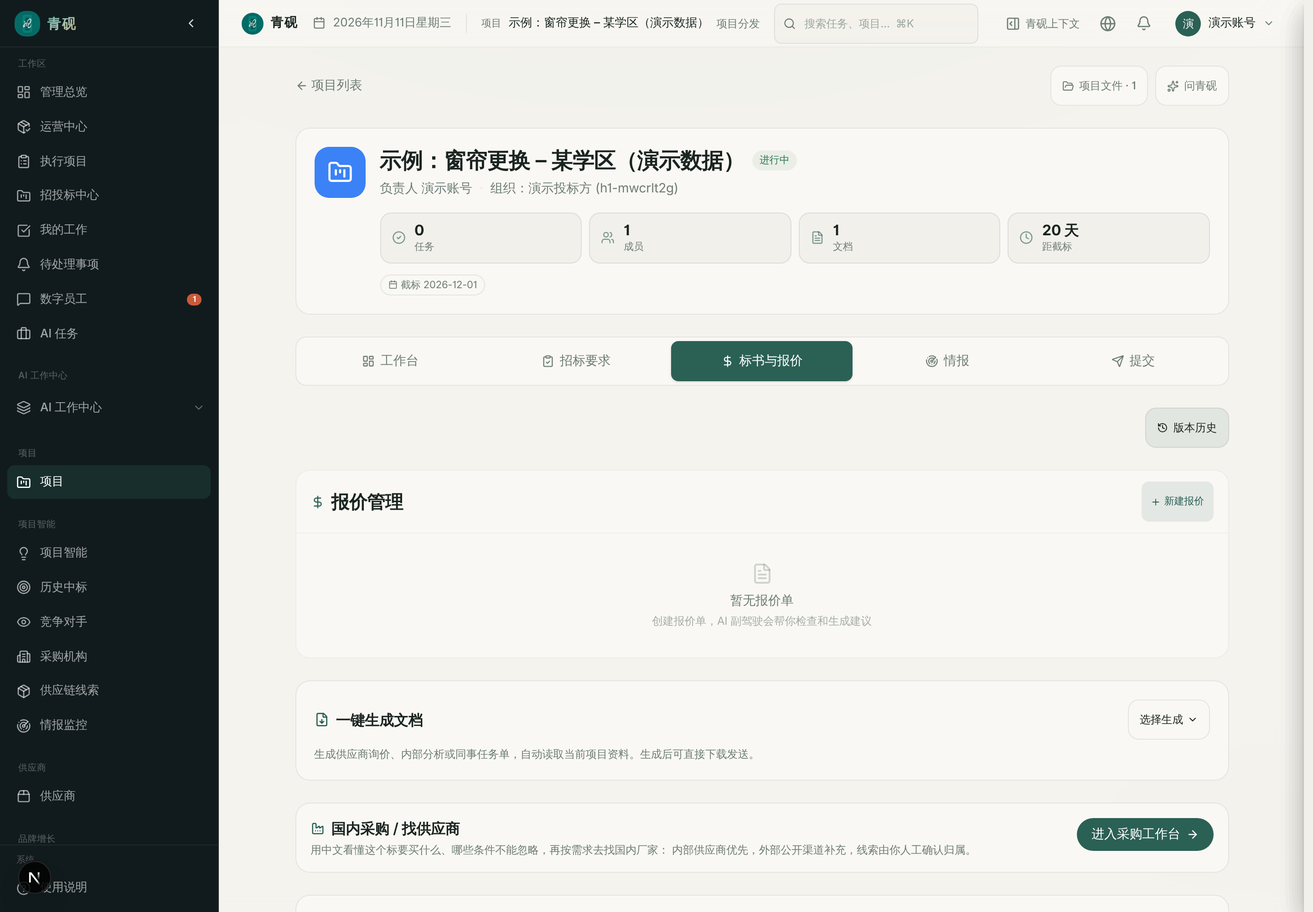
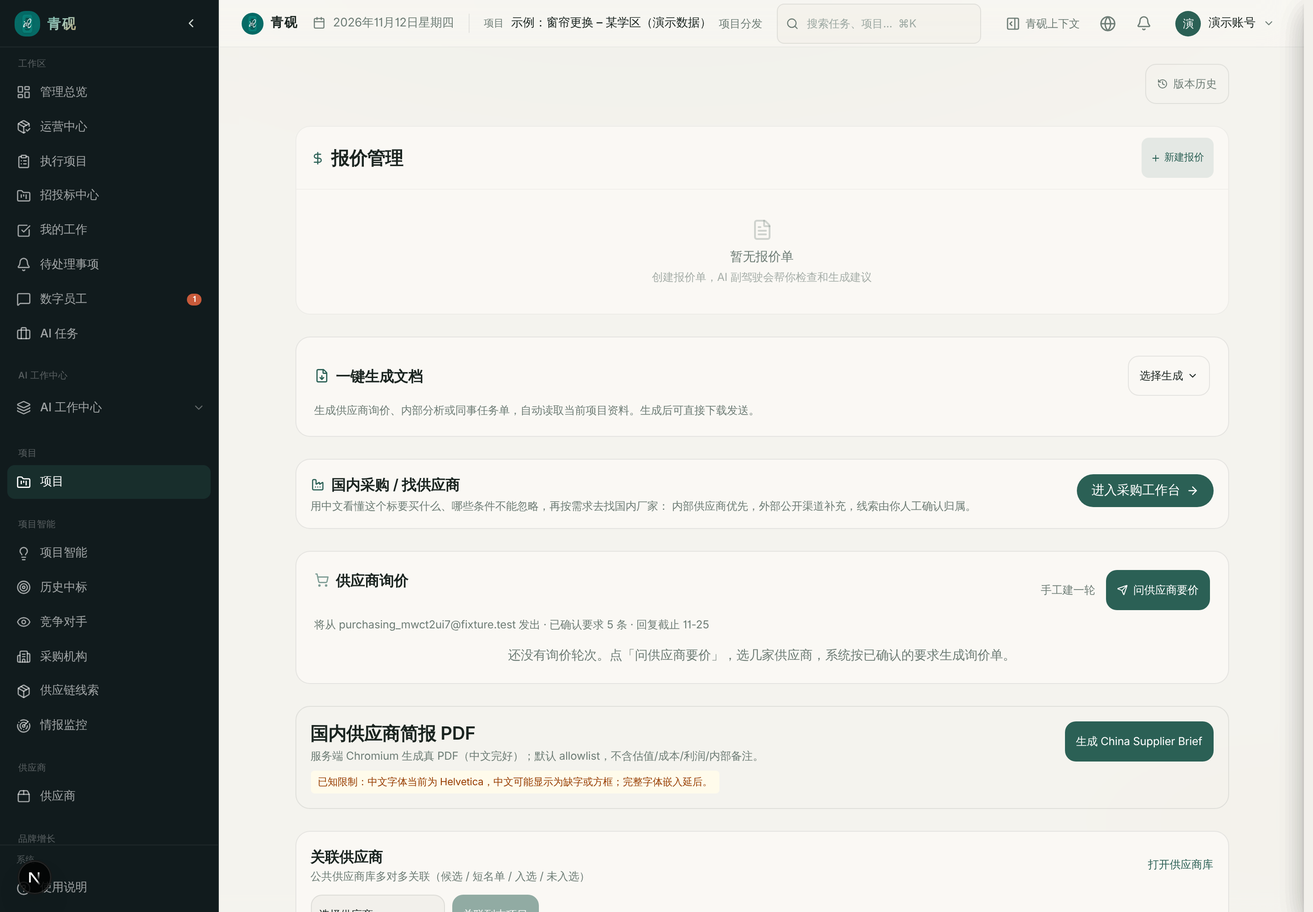
fix(FLOW-H1): 恢复项目页的默认导出（上一个提交误删）；规格 / 设计 / 提案按审查后的实现改准；截图重拍
- 页面文件的 export default 在上一次改动时被误删，类型检查与单元测试都发现不了，是真实浏览器里发现的；补了一条断言
- 规格：新增「用哪一份分析、哪一轮询价」「询价入口的说法与入口自己一致」两条要求，其余按实际行为改写
- 设计：D2 / D3 / D4 改写，新增 D4a / D4b；写明第一版被否决的做法
- .env.example 登记开关
- 截图 8 张（含入口不可用、点击后的位置）

Claude-Session: https://claude.ai/code/session_01RmngaCcysDERn2akbh9ix2

diff --git a/src/lib/tender-next-step/__tests__/web-next-step.test.ts b/src/lib/tender-next-step/__tests__/web-next-step.test.ts
@@ -374,6 +374,7 @@ console.log("接线");
   ok("截标时间只显示到日（手工填的只有日期，显示钟点会是假的）", cardSrc.includes('toLocaleDateString("zh-CN", { month: "numeric", day: "numeric" })') && !/hour:|minute:/.test(cardSrc));
   ok("卡片的测试标记齐全", ["next-step-card", "next-step-headline", "next-step-reasons", "next-step-action", "next-step-urgency", "next-step-closing", "next-step-also"].every((id) => cardSrc.includes(`data-testid="${id}"`)) && cardSrc.includes("data-rule={view.rule}"));
 
+  ok("页面文件仍然默认导出页面组件（改这个文件时曾经把它误删，类型检查发现不了）", /^export default function ProjectDetailPage\(\) \{/m.test(page) && page.includes("<ProjectDetailContent />") && /^function ProjectDetailContent\(\) \{/m.test(page));
   const navStart = page.indexOf("const openNextStepTarget = useCallback(");
   const nav = page.slice(navStart, page.indexOf("const openProjectArea = useCallback("));
   ok("（前提）取到了页面上导航的那段代码", navStart > 0 && nav.includes("scrollToProjectAnchor(target.anchor)"));

diff --git a/src/app/(main)/projects/[id]/page.tsx b/src/app/(main)/projects/[id]/page.tsx
@@ -121,6 +121,14 @@ function scrollToProjectAnchor(anchor: string): () => void {
   return stop;
 }
 
+export default function ProjectDetailPage() {
+  return (
+    <Suspense fallback={<div className="flex h-40 items-center justify-center"><Loader2 className="h-6 w-6 animate-spin text-accent" /></div>}>
+      <ProjectDetailContent />
+    </Suspense>
+  );
+}
+
 function ProjectDetailContent() {
   const params = useParams();
   const router = useRouter();

diff --git a/openspec/changes/tender-web-next-step/specs/tender/web-next-step/spec.md b/openspec/changes/tender-web-next-step/specs/tender/web-next-step/spec.md
@@ -1,18 +1,18 @@
 ## Purpose
-规定招投标项目页上「下一步」的对外行为：系统怎样判断这个标现在卡在哪、给出什么结论与原因、把人带到页面上的哪个位置。判断是查表，不调模型；卡片只指路，不替人批准或发送任何东西。
+规定招投标项目页上「下一步」的对外行为：系统怎样判断这个标现在卡在哪、给出什么结论与原因、把人带到页面上的哪个位置。判断是查表，不调模型；卡片只指路，不替人批准或发送任何东西，也不承诺系统之后会做什么。
 
 ## ADDED Requirements
 
 ### Requirement: 下一步接口
-系统 SHALL 提供只读接口 `GET /api/projects/{id}/next-step`，返回一条结论、不超过三条原因、一个要去的位置（可以没有）、截标提醒（可以没有）与不超过三条顺带要办的事。接口 SHALL 要求项目读权限，组织 SHALL 只取自服务端加载的项目记录。开关 `TENDER_WEB_NEXT_STEP_ENABLED` 关闭、组织不在白名单、或项目不是招投标项目时 SHALL 返回 404。接口 SHALL NOT 写任何东西。
+系统 SHALL 提供只读接口 `GET /api/projects/{id}/next-step`，返回一条结论、不超过三条原因、一个要去的位置（可以没有）、截标提醒（可以没有）、截标时间与不超过三条顺带要办的事。接口 SHALL 要求项目读权限，组织 SHALL 只取自服务端加载的项目记录。开关 `TENDER_WEB_NEXT_STEP_ENABLED` 关闭、组织不在白名单、或项目不是招投标项目时 SHALL 返回 404。接口 SHALL NOT 写任何东西。
 
 #### Scenario: 开关与权限
 - **WHEN** 开关关闭；或没登录；或不是项目成员；或项目不是招投标项目
 - **THEN** 分别是 404、401、被拒、404，响应里没有任何项目内容（`npx tsx src/lib/tender-next-step/__tests__/web-next-step-db.isolated.test.ts`）
 
 #### Scenario: 不写库
-- **WHEN** 有读权限的人调用接口
-- **THEN** 调用前后项目、分析、询价、审批、审计记录都没有变化（同一测试）
+- **WHEN** 有读权限的人反复调用接口
+- **THEN** 调用前后项目、分析、要求、询价、审批、通知、审计记录都没有变化（同一测试）
 
 ### Requirement: 判断是确定性的查表
 下一步 SHALL 由确定性的规则得出，SHALL NOT 调用模型；同样的状态 SHALL 得出同样的结果。待批、分析中、关键事实缺证据、强制要求不满足、还没询价、没回复、报价齐了、定了供应商没定价这些状态 SHALL 用 Muse 通道 `next_step` 的同一张查表判断，SHALL NOT 另写一份。
@@ -21,77 +21,115 @@
 - **WHEN** 分别构造这八种状态
 - **THEN** 网页得出的规则与 Muse 查表对同一状态得出的规则相同，结论文字取自同一处（`npx tsx src/lib/tender-next-step/__tests__/web-next-step.test.ts`）
 
+### Requirement: 用哪一份分析、哪一轮询价
+「当前这份分析」 SHALL 是最近一次分析；最近一次失败或被取代、而之前有等待审核或已批准的一份时 SHALL 用之前那份，并在顺带要办的事里说明最近一次失败了。「当前这一轮询价」 SHALL 是没取消的轮次里最新一轮有已发出供应商的；都没有发出过时 SHALL 是最新一轮。只算还作数的投标报价：已取消、已被取代的 SHALL NOT 算作「投标价已有」。
+
+#### Scenario: 空的新轮次不盖住上一轮
+- **WHEN** 第 1 轮有两家报价，之后手工建了一个空的（或只有未发出供应商的）新轮次
+- **THEN** 结论仍是报价齐了、位置是第 1 轮；不是「还没问过供应商」（`web-next-step-db.isolated.test.ts`）
+
+#### Scenario: 最近一次分析失败
+- **WHEN** 之前有一份等待审核的分析，最近一次重新分析失败了
+- **THEN** 主结论照等待审核的那份给出，顺带说明最近一次重新分析失败了（同一测试）
+
 ### Requirement: 网页补充的状态
-对查表没有覆盖的状态，系统 SHALL 给出明确结论：没有上传招标文件；文件正在解析；分析失败；分析完成但要求还没确认或分析还没批准；已发询价在等回复；只有一家报价；一轮没有拿到报价；已有投标价、准备提交；已提交；截标时间已过且没有提交记录；项目已结束。分析还没批准且没有进行中的询价时，系统 SHALL 指向确认要求与批准分析，SHALL NOT 指向询价。
+对查表没有覆盖、或它的答案在网页上不成立的状态，系统 SHALL 给出明确结论：没有上传招标文件；文件正在解析；分析失败；分析完成、等确认要求并批准；分析已批准却没有已确认的要求；供应商已回复、报价没录入；已发询价在等回复；只有一家报价；一轮没有拿到报价；已有投标价、准备提交；已提交；已中标；截标日期已过且没有提交记录；项目已结束。没有可用的分析而询价或定价已经在进行时，系统 SHALL 按实际进度给出下一步，把分析的事放在顺带要办的事里。
 
 #### Scenario: 分析完等批准
 - **WHEN** 最新一份分析等待审核、关键事实齐全、还没有询价
 - **THEN** 结论是等确认要求并批准，位置是「招标要求」页签的招标分析；不是「还没问过供应商」（`web-next-step.test.ts`）
 
-#### Scenario: 已提交与截标已过
-- **WHEN** 项目有提交时间；或截标时间已过且没有提交时间
-- **THEN** 前者结论是已提交、等结果；后者结论是截标时间已过、没有提交记录；两者都不再建议询价或定价（`web-next-step.test.ts`）
+#### Scenario: 已回复没录入
+- **WHEN** 一轮里两家已回复、一家还在等
+- **THEN** 结论是 2 家已回复、报价还没录入，位置是这一轮；不说「没有拿到报价」（`web-next-step.test.ts`）
 
-### Requirement: 截标提醒不盖住下一步
-距截标三天以内且未提交时，系统 SHALL 在结论旁给出截标提醒（不足一天时 SHALL 按小时说），SHALL 同时照常给出下一步。没有填截标时间时 SHALL 在顺带要办的事里提示。
+#### Scenario: 没有分析但已有报价
+- **WHEN** 项目有文件、没有分析，询价里已有两家报价
+- **THEN** 结论是报价齐了；顺带要办的事里有「招标文件还没分析」（`web-next-step-db.isolated.test.ts`）
+
+### Requirement: 询价入口的说法与入口自己一致
+页面上的询价入口要求的是至少一条已确认的要求，不是批准分析：系统 SHALL NOT 说「批准之后才能询价」；分析等待审核而已有已确认的要求时 SHALL 提示可以先去询价；分析已批准而没有一条已确认的要求时 SHALL 说明入口用不了，并给出重新分析或手工建一轮两条出路。指向询价入口时，系统 SHALL 读入口当前的状态：入口不能用时 SHALL 写出入口自己给的原因，SHALL NOT 说成可以直接发。
+
+#### Scenario: 入口不能用
+- **WHEN** 分析已批准、有已确认的要求、还没询价，而组织没有连接发信邮箱
+- **THEN** 结论是还没问过供应商；原因里是入口给出的「还没连接」的说明，并提示可以手工建一轮（`web-next-step-db.isolated.test.ts`）
+
+#### Scenario: 已批准而没有已确认的要求
+- **WHEN** 分析已批准，要求里没有一条是已确认的
+- **THEN** 结论是分析已批准、但没有已确认的要求，位置是招标分析；不说「去问供应商要价」（同一测试）
+
+### Requirement: 截标的提醒与结论
+距截标三天以内且未提交时，系统 SHALL 在结论旁给出截标提醒，SHALL 同时照常给出下一步。提醒 SHALL 按天说，SHALL NOT 说钟点（手工填的截标时间只有日期）。截标时间过了不到一天时系统 SHALL 只作提醒，SHALL NOT 下「已过」的结论；过了一天以上且没有提交记录时 SHALL 给出「截标日期已过」，位置是工作台的关键日期，并保留还有几条审批没处理的提示。系统 SHALL 只认项目的截标时间，SHALL NOT 拿内部的到期日顶替；没有填时 SHALL 在顺带要办的事里提示。
 
 #### Scenario: 两天后截标、还没询价
 - **WHEN** 两天后截标、分析已批准、还没有询价
 - **THEN** 响应同时含截标提醒「2 天后截标，还没提交」与下一步「还没问过供应商」（`web-next-step.test.ts`）
 
-#### Scenario: 只剩几个小时
-- **WHEN** 约 5 小时后截标，项目上有一条审批等批
-- **THEN** 提醒是「约 5 小时后截标，还没提交」，下一步是有 1 条等你批（`web-next-step.test.ts`）
+#### Scenario: 刚过截标时间
+- **WHEN** 截标时间一小时前过了，没有提交时间；或 30 小时前过了
+- **THEN** 前者照常给下一步，提醒是「截标时间到了或刚过」；后者结论是截标日期已过、没有提交记录（`web-next-step-db.isolated.test.ts`）
 
-### Requirement: 催单的口径与定时扫描一致
-判断「有供应商没回复」时，等待天数 SHALL 取项目负责人的设置，该轮批准时带了跟进授权且仍生效的 SHALL 取授权里定格的天数——与定时催单扫描相同。该轮的回复截止已过时系统 SHALL NOT 提示催单，SHALL 改为说明截止已过、有几家没回。网页上没有起草催单的按钮：系统 SHALL 说明催单由定时检查起草、起草后在这里等批，没有邮件线程的由人手工联系。
+#### Scenario: 只有内部到期日
+- **WHEN** 项目没有截标时间，内部到期日是两天前
+- **THEN** 不说截标已过；顺带要办的事里有「还没填截标时间」（同一测试）
 
-#### Scenario: 负责人的天数
-- **WHEN** 项目负责人设的是 5 天、看页面的人设的是 2 天，询价发出 3 天没回
-- **THEN** 结论不是「没回」，而是在等回复（`web-next-step-db.isolated.test.ts`）
+### Requirement: 等回复与没回复的口径
+判断「有供应商没回复」时，等待天数 SHALL 取项目负责人的设置，该轮批准时带了跟进授权且仍生效的 SHALL 取授权里定格的天数——与定时催单扫描相同。回复截止已过、轮次已结束、或发出时间超出定时催单的时间窗的供应商 SHALL NOT 被说成「没回、该催了」或「在等回复」。已经选定供应商时，没回的其它供应商 SHALL NOT 挡住下一步。系统 SHALL NOT 承诺之后会不会起草或发出催单；SHALL 只说现在的状态并指向这一轮。
+
+#### Scenario: 负责人的天数与授权的天数
+- **WHEN** 项目负责人设的是 5 天、看页面的人设的是 2 天，询价发出 3 天没回；之后发出满 6 天，而这一轮带着定格 8 天的已批准跟进授权
+- **THEN** 两种情况结论都是在等回复，分别写明满 5 天、满 8 天会提示（`web-next-step-db.isolated.test.ts`）
 
 #### Scenario: 回复截止已过
 - **WHEN** 询价发出很久没回，该轮的回复截止日已过一天以上
-- **THEN** 结论是回复截止已过、几家没回，位置是这一轮；原因里没有催单（`web-next-step.test.ts`）
+- **THEN** 结论是回复截止已过、几家没回，位置是这一轮；文字里没有「会催」「不会再催」（`web-next-step.test.ts`）
+
+#### Scenario: 已选定后没回的不挡路
+- **WHEN** 已选定一家，另一家很久没回，还没定价
+- **THEN** 下一步是定投标价，原因里带一句另有 1 家没回（`web-next-step.test.ts`）
 
 ### Requirement: 每一步指向页面上的位置且不执行动作
-给出的位置 SHALL 是下列之一：项目页的一个页签（可带页内位置：招标分析、询价轮次、某一轮询价、投标价、投标工作区）、文件抽屉、审批中心。系统 SHALL NOT 因为显示或点击下一步而批准、驳回、发送、起草或推进任何东西；这些动作 SHALL 仍由人在既有的按钮上完成。看页面的人没有项目写权限、而这一步需要写权限时，系统 SHALL 说明这一步要由项目负责人来做。
+给出的位置 SHALL 是下列之一：项目页的一个页签（可带页内位置：招标分析、供应商询价、某一轮询价、投标价、投标工作区、关键日期）、文件抽屉、审批中心。页内位置 SHALL 在相应区块没有数据时也存在。系统 SHALL NOT 因为显示或点击下一步而批准、驳回、发送、起草或推进任何东西；这些动作 SHALL 仍由人在既有的按钮上完成。看页面的人没有项目写权限、而这一步需要写权限时，系统 SHALL 说明这一步要由项目负责人来做。
 
 #### Scenario: 位置
 - **WHEN** 状态分别是没传文件、分析完等批准、还没询价、报价齐了、定了供应商没定价
-- **THEN** 位置分别是文件抽屉、「招标要求」页签的招标分析、「标书与报价」页签的询价轮次、那一轮询价、「标书与报价」页签的投标价（`web-next-step.test.ts`）
+- **THEN** 位置分别是文件抽屉、「招标要求」页签的招标分析、「标书与报价」页签的供应商询价、那一轮询价、「标书与报价」页签的投标价（`web-next-step.test.ts`）
 
-#### Scenario: 点击只是导航
-- **WHEN** 在真实页面上点卡片的按钮
-- **THEN** 只切换页签并滚动到那个位置；没有发出任何写请求（截图 `docs/acceptance/flow-h1/`；`web-next-step.test.ts` 的源码断言）
+#### Scenario: 还没有任何轮次时也能到位
+- **WHEN** 项目还没有询价轮次，在真实页面上点「去供应商询价」
+- **THEN** 页面切到「标书与报价」并滚到供应商询价，「问供应商要价」按钮在视野里；没有发出任何写请求（截图 `docs/acceptance/flow-h1/after-click-rfq.png`；`web-next-step.test.ts` 核对该位置在区块的根元素上）
 
 ### Requirement: 等批准的动作
-「有动作等你批」 SHALL 只统计这个人可见、属于这个项目、待批且未过期的审批。最早一条是询价或催单时位置 SHALL 是它所在的那一轮；其它 SHALL 是审批中心。
+「有动作等你批」 SHALL 只统计这个人可见、属于这个项目、待批且未过期的审批，可见范围 SHALL 与他的审批收件箱相同。最早一条是询价或催单时位置 SHALL 是它所在的那一轮；催单针对的供应商已经回复或报价时（那一轮里不再列出它）位置 SHALL 是审批中心，并说明这张催单已经用不上；其它类型 SHALL 是审批中心。
 
 #### Scenario: 别人的、别的项目的、过期的不算
-- **WHEN** 项目上有一条本人可见的待批询价，另有别的项目的、已过期的、本人看不到的各一条
-- **THEN** 结论是有 1 条等你批，位置是那一轮询价（`web-next-step-db.isolated.test.ts`）
+- **WHEN** 项目上有一条负责人可见的待批催单，另有别的项目的、已过期的、已批过的各一条；另一位项目成员看不到这张卡
+- **THEN** 负责人看到有 1 条等你批、位置是那一轮；那位成员看到的条数与他的审批收件箱一致（0 条）（`web-next-step-db.isolated.test.ts`）
+
+#### Scenario: 用不上的催单
+- **WHEN** 催单针对的那一家已经报价
+- **THEN** 位置是审批中心，原因说明这张催单已经用不上、可以驳回（同一测试）
 
 ### Requirement: 投标工作区的阻断项与价格表
-投标工作区对该组织开启时：已有投标价、准备提交的状态 SHALL 列出工作区判定里的阻断项（成本类的除外，并说明成本核算只存在浏览器里、这里看不到）；分析已完成而价格表还没录时 SHALL 在顺带要办的事里提示可以从招标分析带入。工作区未开启时 SHALL NOT 出现这两项。
+投标工作区对该组织开启且已录价格表时：已有投标价、准备提交的状态 SHALL 列出工作区判定里的阻断项（成本类与截标时间类的除外，并说明成本核算只存在浏览器里、这里看不到）。工作区开启而价格表还没录时 SHALL NOT 说有阻断项，SHALL 在顺带要办的事里提示可以从招标分析带入。工作区未开启时 SHALL NOT 出现这两项。
 
-#### Scenario: 工作区开启与关闭
-- **WHEN** 同一个已有投标价的项目，工作区分别开启（价格表里有一行尺寸还没核对）与关闭
-- **THEN** 开启时原因里有那条阻断项、位置是投标工作区；关闭时位置是「提交」页签（`web-next-step-db.isolated.test.ts`）
+#### Scenario: 工作区关闭、开启未用、开启已用
+- **WHEN** 同一个已有投标价的项目，工作区分别关闭、开启但没录价格表、开启且价格表里有一行尺寸还没核对
+- **THEN** 前两种位置是「提交」页签（第二种顺带提示价格表还没录）；第三种原因里有那条阻断项、位置是投标工作区（`web-next-step-db.isolated.test.ts`）
 
 ### Requirement: 不输出金额
-接口的响应与卡片 SHALL NOT 含任何金额：毛利率、项目估值、我方报价、供应商报价、成本都不出现。
+接口的响应与卡片 SHALL NOT 含任何金额：毛利率、项目估值、我方报价、供应商报价、成本都不出现。来自数据的自由文字（审批标题、阻断项说明、询价入口的说明）里带金额或百分比时 SHALL 整段替换，SHALL NOT 局部遮盖。
 
 #### Scenario: 响应里没有金额
-- **WHEN** 项目有估值、有供应商报价、有投标报价
-- **THEN** 响应的文字里不出现这些数字，响应里没有价格类字段（`web-next-step-db.isolated.test.ts`）
+- **WHEN** 项目有估值、有供应商报价、有投标报价；或一条审批的标题里写着金额与毛利
+- **THEN** 响应的文字里不出现这些数字，那条标题整段不显示，响应里没有价格类字段（`web-next-step-db.isolated.test.ts`、`web-next-step.test.ts`）
 
 ### Requirement: 项目页的下一步卡片
-开关开启时，招投标项目的工作台页签顶部 SHALL 显示「下一步」卡片：结论、原因、去往位置的按钮、截标提醒、顺带要办的事。卡片出现时「项目决策摘要」 SHALL NOT 给出另一个下一步（它显示同一条结论）。审批有变化、项目有更新、回到工作台页签时卡片 SHALL 重新取数。接口不可用（含开关关闭）时卡片 SHALL NOT 渲染，页面其余部分 SHALL 与没有卡片时相同。
+开关开启时，招投标项目的工作台页签顶部 SHALL 显示「下一步」卡片：结论、原因、去往位置的按钮、截标提醒或截标日期、顺带要办的事。卡片出现时「项目决策摘要」与右侧的项目上下文 SHALL 显示同一条结论：决策摘要 SHALL NOT 另有按钮，项目上下文 SHALL 保留去往同一页签或文件抽屉的按钮。项目数据重新载入、分析状态变化、审批有变化、从别的页签回到工作台时卡片 SHALL 重新取数。接口不可用（含开关关闭）时卡片 SHALL NOT 渲染，页面其余部分 SHALL 与没有卡片时相同。
 
 #### Scenario: 卡片与摘要说同一件事
 - **WHEN** 打开一个分析已批准、还没询价的项目
-- **THEN** 卡片写「还没问过供应商」并有「去问供应商要价」按钮；决策摘要显示同一条结论、没有另一个按钮（截图 `docs/acceptance/flow-h1/no-rfq.png`）
+- **THEN** 卡片写「还没问过供应商」并有「去供应商询价」按钮；决策摘要显示同一条结论、没有另一个按钮（截图 `docs/acceptance/flow-h1/no-rfq.png`）
 
 #### Scenario: 开关关闭
 - **WHEN** 开关关闭时打开同一个项目

diff --git a/openspec/changes/tender-web-next-step/design.md b/openspec/changes/tender-web-next-step/design.md
@@ -7,8 +7,8 @@
 - 确定性的查表已经有了：`src/lib/muse-bridge/next-step.ts` 的 `decideNextStep`，十条规则，纯函数、零依赖。唯一调用方是 Muse 通道的 `next_step` 意图，而 Muse Connector 已冻结。
 - 网页上另有两处「下一步」：`deriveTenderWorkbenchState`（三步：上传 → 确认要求 → 准备标书，第三步永远不结束）与 `deriveProjectCommandState`（「项目决策摘要」上的按钮，要求确认之后靠手工推进的阶段来猜）。它们都在浏览器里用项目基本信息算，看不到询价、报价、审批。
 - Muse 那张表直接搬上网页有三处不合适：
-  1. 没有「分析完、等你确认要求并批准」这一步——这种状态它会落到「还没问过供应商」，而网页上的询价入口正要求先批准分析。
-  2. 「三天内截标」是排第二的规则，命中后只说截标、不说该做什么——恰好是最需要指路的时候。
+  1. 没有「分析完、等你确认要求并批准」这一步——这种状态它会落到「还没问过供应商」。网页上的询价入口要求的是至少一条已确认的要求（不是批准分析），而批准之后就不能再确认，所以这一步不能跳过不提。
+  2. 「三天内截标」是排第二的规则，命中后只说截标、不说该做什么——恰好是最需要指路的时候。它按天向上取整（25 小时说成「2 天后」）；而手工填的截标时间只有日期，存成当天中午，钟点是假的。
   3. 「没回该催」取的是提问人的等待天数，也不看回复截止；定时催单扫描取的是项目负责人的天数（或该轮授权里定格的天数），截止过了就不催（基线 G12）。而且网页上没有起草催单的按钮，催单只由定时检查起草。
 - 页面已有的定位办法：`?tab=`、询价区块认 `#rfq-round-<id>` 与 `#rfq-rounds`、招标分析区有 `id="tender-analysis"`。没有通用的「切到某页签并滚到某处」。
 - 这个人可见的待批审批：`loadPendingMineWhere` 给出条件，`PendingAction` 上有 `projectId` 列，可以直接按项目查。
@@ -26,7 +26,7 @@
 
 - 不改 `src/lib/muse-bridge/**`（包括 `next-step.ts`、`router.ts`）。
 - 不改 `src/lib/tender/workbench-state.ts`、`src/lib/tender/stage*.ts`、`src/components/project-onboarding/**`：三步卡与六段进度条照旧。
-- 不改询价、催单、审批、投标工作区的任何判断与接口；`src/lib/tender-rfq/chase-service.ts` 只把两个已有的函数导出，不改它们。
+- 不改询价、催单、审批、投标工作区的任何判断与接口；`src/lib/tender-rfq/chase-service.ts` 只把一个已有的函数（`roundPolicyInEffect`）与一个常量（`OPEN_ITEM_WINDOW_DAYS`）导出，不改它们。
 - 不改 `prisma/schema.prisma`。
 
 ## Decisions
@@ -39,35 +39,55 @@
 - 否决：把查表函数改成两边通用的核心、Muse 与网页各自渲染。要动冻结通道的文件，`next_step` 的输出有改变的风险，而收益只是代码好看一点。
 - 否决：把文件挪到 `src/lib/tender/` 再从 muse-bridge 转出口。同样要动 muse-bridge；位置不好看可以以后再挪。
 
-### D2 截标提醒单独算，不参与排序
+### D2 截标提醒单独算，不参与排序；只认截标时间，按天说
 
-调两次查表：一次去掉截标时间，得到真正的下一步；一次去掉待批，只看它是不是命中「三天内截标」，命中就把那句结论作为卡片上的提醒。三天这个阈值与文案仍只有一处定义。
+调两次查表：一次去掉截标时间，得到真正的下一步；一次去掉待批，只看它是不是命中「三天内截标」——要不要提醒由它决定，「三天」仍只有一处定义。怎么说由网页定：按天（「2 天后」「1 天多后」「不到 1 天后」「到了或刚过」），不说钟点。过了整整一天才给「截标日期已过」这个结论。
 
 - 否决：沿用它的顺序（截标排第二）。命中后只剩一句「N 天后截标」，下一步被盖住。
-- 否决：在网页这边再写一个三天的常量。又是两处。
+- 否决：用它的原话。它向上取整，25 小时说成「2 天后」，比实际宽松。
+- 否决：说到小时（本设计的第一版）。手工填的截标时间存成当天中午，「约 5 小时后截标」是假精确；一过中午就判「已错过截标」更是错的。
+- 否决：没有截标时间时拿内部到期日顶替（Muse 的取法）。到期日不是截标，提交页上截标时间显示的也是「暂无」。
 
-### D3 网页补充的状态放在查表之外，只在它没有答案的地方补
+### D3 网页补充的状态放在查表之外，只在它没有答案、或答案在网页上不成立的地方补
 
-前置（查表之前）：项目已结束、已提交、截标已过且未提交。细化（查表之后）：
+前置（查表之前）：已中标、项目已结束、已提交、截标日期已过一天以上。细化（查表之后）：
 
-- 查表说「没分析」→ 按有没有文件、是否在解析、是否失败分成四种。
-- 分析等待审核且查表落到「还没询价」或「没有待办」→ 改为「等你确认要求并批准」。有进行中的询价时不改，只在顺带要办的事里提一句分析还没批准（有人先手工建了轮次，不能让卡片永远停在批准上）。
-- 查表说「没有待办」→ 按询价轮次与投标价再分：等回复、只有一家报价、一轮没拿到报价、已有投标价准备提交。
-- 已有投标价时，「还没询价」让位给「准备提交」（有人不经询价直接定了价）。
+- 查表说「没分析」→ 按有没有文件、是否在解析、是否失败分开；**如果询价或定价已经在走（老项目、或有人手工做了），跟着实际进度说**，分析的事放在顺带要办的事里。
+- 分析等待审核且查表落到「还没询价」或「没有待办」→ 改为「等你确认要求并批准」；已有已确认的要求时顺带提示可以先去询价。有进行中的询价时不改，只顺带提一句分析还没批准。
+- 分析已批准却没有一条已确认的要求 → 单列：入口用不了，批准后不能再确认，出路是重新分析或手工建一轮。
+- 查表说「没回」而已经选定了一家 → 没回的不再挡路，按未响应再查一次表。
+- 查表说「没有待办」→ 按询价轮次与投标价再分：已回复没录入、等回复、只有一家报价、一轮没拿到报价、已有投标价准备提交；认不出的状态不猜，带人去看这一轮。
+- 已有投标价时，「还没询价」让位给「准备提交」。
 
 - 否决：把这些加进 Muse 的表。见 D1。
 
-### D4 催单按定时扫描的口径喂数
+### D4 等回复与没回复：按定时扫描的口径喂数，不承诺系统会做什么
 
-等待天数：该轮带了跟进授权且仍生效 → 授权里定格的天数；否则项目负责人的偏好 → 组织设置 → 3 天。用的是扫描自己的两个函数（从 `chase-service.ts` 导出）。回复截止用扫描的 `deadlinePassed`。查表说「没回」而截止已过 → 改为「回复截止已过」。
+等待天数：该轮带了跟进授权且仍生效 → 授权里定格的天数；否则项目负责人的偏好 → 组织设置 → 3 天。用的是扫描自己的函数。扫描不再看的供应商（轮次已结束、发出超过它 90 天的时间窗）按未响应交给查表；回复截止用扫描的 `deadlinePassed`，过了就按未响应再查一次表。
 
-- 否决：沿用 Muse 的取法（提问人的天数、不看截止）。卡片会说「该催了」，而扫描不会催，人等不到那张卡。
-- 否决：顺手把 Muse 的取法也改了。冻结通道，不动。
-- 代价：同一个状态，Muse 与网页在这一条上可能说的不一样（Muse 用提问人的天数）。Muse 已冻结，记在已知限制里。
+文字只说现在的状态（几家没回、超过几天、哪几家没有邮件线程）并指向这一轮。**不说「定时检查会起草催单」「系统不会再催」**：催不催取决于邮箱有没有连接、这一轮有没有授权、有没有被驳回过的催单卡——这些卡片不知道（第一版说了，审查逐条证明是错的）。
+
+- 否决：沿用 Muse 的取法（提问人的天数、不看截止）。卡片会说「该催了」，而扫描不会催。
+- 否决：把扫描的全部判断搬进来算「这一家会不会被催」。要读卡片状态、邮箱、授权，等于在卡片里重做一遍扫描；说错的代价比不说大。
+- 代价：同一个状态，Muse 与网页在这一条上可能说的不一样。Muse 已冻结，记在已知限制里。
+
+### D4a 当前这份分析、当前这一轮
+
+分析：最近一次；最近一次失败或被取代、而之前有等待审核或已批准的一份 → 用之前那份（询价入口用的也是它）。轮次：没取消的里最新一轮有已发出供应商的；都没发出过 → 最新一轮。
+
+- 否决：一律取最新一轮（Muse 的取法，本设计的第一版）。手工建一个空轮次、或一张发送卡过期后留下的草稿轮次，会把上一轮的报价盖成「还没问过供应商」。
+- 否决：一律取最近一次分析。重新分析失败一次，卡片就说「上次分析失败」，而询价其实照常能用。
+
+### D4b 指向询价入口时，读入口自己的状态
+
+结论是「还没询价」或「一轮没拿到报价」时，再调一次页面上询价入口的读取函数（只读），拿它的「能不能用、为什么不能」。不能用时把它的原因写出来。
+
+- 否决：只写「去问供应商要价」。入口可能因为没连邮箱、三天内不开新轮、没有可发的供应商而是灰的，卡片就成了指向一个点不了的按钮。
+- 否决：每次都读入口状态。它要读供应商、邮箱、历史发送，比卡片其余部分加起来还重；只在要指向它的两种结论下读。
 
 ### D5 位置是数据，不是回调
 
-接口返回 `{ kind: "tab", tab, anchor } | { kind: "files" } | { kind: "href", href }`。页面按它切页签、滚动、开抽屉或跳转。两个缺的锚点（投标价、投标工作区）在「标书与报价」页签里各包一层带 `id` 的容器。
+接口返回 `{ kind: "tab", tab, anchor } | { kind: "files" } | { kind: "href", href }`。页面按它切页签、滚动、开抽屉或跳转。缺的四个页内位置（供应商询价、投标价、投标工作区、关键日期）各加一个 `id`，都放在「没有数据时也会渲染」的元素上——第一版把询价的位置指到轮次列表，还没有轮次时它不存在，点了哪儿也去不了。
 
 - 否决：接口返回一个网址。文件抽屉不是网址；同页切换不该整页刷新。
 - 否决：在卡片上直接放「批准」「发送」按钮。批准的按钮已经在该在的地方，旁边有正文可看；卡片上再放一个，等于绕过了看正文这一步。
@@ -80,7 +100,7 @@
 
 ### D7 卡片出现时，决策摘要跟着它说
 
-页面拿到接口结果后，把「项目决策摘要」的下一步换成同一条结论（不带按钮）；按钮只在卡片上。接口不可用时摘要照旧。
+页面拿到接口结果后，把「项目决策摘要」与右侧「项目上下文」的下一步都换成同一条结论。决策摘要不带按钮（按钮在它正上方的卡片上）；项目上下文在每个页签都看得到、而卡片只在工作台，所以它保留按钮，去往同一个页签或文件抽屉。接口不可用时两处照旧。
 
 - 否决：两处都留着各自的按钮。一页上两个「下一步」，说的还不一样。
 - 否决：删掉决策摘要的下一步逻辑。开关关闭时页面要与现在相同。
@@ -93,7 +113,7 @@
 
 ### D9 投标工作区的阻断项怎么用
 
-工作区开启时现算一次判定（与它的读取接口用同一组函数）。成本类的两种阻断项不列（服务端看不到成本输入，列了就永远在）；其余的在「准备提交」里列前两条并给出总数。价格表为空时在顺带要办的事里提示可从招标分析带入（FIX-2）。
+工作区开启时现算一次判定（与它的读取接口用同一组函数）。成本类的两种阻断项不列（服务端看不到成本输入，列了就永远在）；截标时间类的两种也不列（卡片另有提示）；其余的在「准备提交」里列前两条并给出总数。**只在已经录了价格表时才谈阻断项**：工作区开了但没用过的组织，阻断项只有「价格表没有任何行项」，那是另一件事，放在顺带要办的事里（并提示可从招标分析带入，FIX-2）。
 
 - 否决：把所有阻断项都列出来。「成本还没核算」会一直挂着，人很快就不看了。
 - 否决：阻断项一出现就作为主结论。询价还没发的时候说「尺寸没核对」，顺序不对。
@@ -103,7 +123,7 @@
 1. **零 schema**：遵守。只读既有的表与字段；不新增表、列、迁移。
 2. **出站先审批**：遵守。卡片与接口不建审批、不批准、不发送；批准仍由人在既有按钮上完成。
 3. **禁止第三套队列**：遵守。没有后台执行；接口在请求里现算。
-4. **脱敏**：遵守。响应不含任何金额（毛利率、估值、我方报价、供应商报价、成本都不出）；Muse 通道没有新增内容。
+4. **脱敏**：遵守。响应不含任何金额（毛利率、估值、我方报价、供应商报价、成本都不出）；来自数据的自由文字（审批标题、阻断项说明、入口的说明）带金额或百分比时整段替换，不做局部遮盖；Muse 通道没有新增内容。
 5. **不爬登录页**：不涉及。
 6. **邮箱分离**：不涉及。
 7. **确定性优先**：遵守。判断全部是查表与固定规则；不新增模型调用；共用状态直接调用既有的查表函数。
@@ -111,22 +131,25 @@
 
 ## 验证方式
 
-- `npx tsx src/lib/tender-next-step/__tests__/web-next-step.test.ts`（新）：每一种状态的结论、原因、位置；与 Muse 查表逐状态对照；截标提醒与下一步并存；催单口径；只读成员；位置到网址的换算；开关；接线与「点击只是导航」的源码断言。
-- `npx tsx src/lib/tender-next-step/__tests__/web-next-step-db.isolated.test.ts`（新，本地隔离库，经真实路由处理函数）：从没传文件一路走到已提交；待批的范围（别人的、别的项目的、过期的）；负责人的天数；工作区开与关；权限与开关；不写库；响应里没有金额。
-- 变异核对：把实现逐处改坏，每一处都要有测试失败。
-- `npx tsx src/lib/muse-bridge/__tests__/next-step.test.ts` 等既有测试不改断言通过；读到被改文件的既有测试全部重跑（`workbench-command-deck`、`tender-detail-ia`、`panel-helpers`、`quote-engine-contract` 等）。
+- `npx tsx src/lib/tender-next-step/__tests__/web-next-step.test.ts`（新）：每一种状态的结论、原因、位置；与 Muse 查表逐状态对照；截标提醒与下一步并存、按天说；等回复与没回复的口径；询价入口三种状态；待批的各种卡；全部 25 条规则逐条核对权限说明；工作区三种情形；金额的整段替换；位置到网址；开关；决策摘要与右侧面板；接线与「点击只是导航」的源码断言（含页内位置在区块根元素上）。
+- `npx tsx src/lib/tender-next-step/__tests__/web-next-step-db.isolated.test.ts`（新，本地隔离库，经真实路由处理函数）：一个标从没传文件走到已中标；待批的范围；负责人的天数与授权里定格的天数；催过两次的；用不上的催单；已取消的报价；工作区关 / 开未用 / 开已用；只有到期日；两份分析、最近一次失败；三轮询价（空轮次、取消、完成、超出时间窗）；已批准而没有已确认的要求；没有分析但已有报价；权限与开关；不写库；响应里没有金额。
+- 变异核对：把实现逐处改坏（含独立审查做过而第一版测试没发现的 15 处），每一处都要有测试失败。
+- `npx tsx src/lib/muse-bridge/__tests__/next-step.test.ts` 等既有测试不改断言通过；读到被改文件的既有测试全部重跑。
 - 全量：`npm run test:ci`、`npm run typecheck`、`npm run lint:baseline`、`bash scripts/check-test-registry.sh`、`bash scripts/test-runtime-architecture.sh`。
-- 真实应用截图（本地库、演示数据）存 `docs/acceptance/flow-h1/`：等批准分析、还没询价、有卡等批、报价齐了、临近截标、开关关闭；并记下点击按钮时发出的请求。
-- 开 PR 前请一个不带结论的独立审查（重点：多租户与审批可见范围、有没有说错状态的情形、位置对不对、测试能不能发现问题）。
+- 真实应用截图（本地库、演示数据）存 `docs/acceptance/flow-h1/`，并记下点击按钮后页面的位置与发出的请求。
+- 开 PR 前请一个不带结论的独立审查（重点：有没有说错状态的情形、位置对不对、多租户与审批可见范围、测试能不能发现问题）。
 - `openspec validate tender-web-next-step --strict`。
 
 ## Risks / Trade-offs
 
-- **卡片说错比不说糟。** 每种状态都有测试；看不准的状态（如只有一家报价）给的是选项，不是指令。
-- **「最新一份分析」按创建时间取**，与 Muse、与页面现有的取法一致；新一份分析在跑的时候卡片会说「正在分析」，即使上一份已批准。
+- **卡片说错比不说糟。** 每种状态都有测试；看不准的状态（只有一家报价、认不出的状态）给的是选项或「去看一下」，不是指令；不承诺系统之后会做什么。
+- **强制要求不满足、有供应商没回，排在比价与定价之前**（查表的顺序，网页沿用；只有「已选定之后没回的不挡路」做了调整）。
 - **网页上没有「标记已提交」与「起草催单」的按钮**。卡片照实说明，指到最近的位置。
-- **每次取数是七八条查询**。只在打开工作台、审批变化、项目更新时取，不轮询。
-- **Muse 与网页在「没回该催」上可能不一致**（D4）。
+- **每次取数是十条左右的查询**，要指向询价入口时再加入口自己的一组。只在项目数据载入、审批变化、分析状态变化、回到工作台时取，不轮询。
+- **开关关闭时，招投标项目的页面每次打开多一次返回 404 的请求**（页面不知道开关的状态）；非招投标项目不请求。
+- **Muse 与网页在「没回该催」、取哪一轮、取哪个截标时间上可能不一致**（D2、D4、D4a）。Muse 已冻结。
+- **审批中心按当前选中的组织列卡**：一个人属于多个组织时，从卡片进审批中心可能要先切组织。
+- **老项目（没有 `workDomain = tender`、只靠旧字段认作招投标的）没有卡片**；接口与询价入口都只认 `workDomain`。
 - **隔离库测试在 CI 里跳过**（仓库现状）：本地跑并在报告里写明。
 
 ## Migration Plan

diff --git a/openspec/changes/tender-web-next-step/proposal.md b/openspec/changes/tender-web-next-step/proposal.md
@@ -10,12 +10,14 @@ TASKFLOW：FLOW-H1（Phase F 续）
 ## What Changes
 
 - 新增接口 `GET /api/projects/{id}/next-step`：返回这个标现在的一条结论、原因、要去的位置、截标提醒、顺带要办的事。只读，项目读权限。
-- 让网页的判断复用 Muse 的同一张查表（十条规则原样调用，不改它），在它前后补上网页才需要的状态：没传文件、文件解析中、分析完等确认与批准、等回复、只有一家报价、一轮没拿到报价、已有投标价准备提交、已提交、截标已过、项目已结束。
-- 把截标提醒从「规则」改成「卡片上的一行」：临近截标时不再盖住真正的下一步。
-- 让催单的口径与定时催单扫描一致：等待天数取项目负责人的设置（或该轮批准时定格的天数），回复截止过了就不再提示催。
-- 让每一步指到页面上具体的位置：页签加锚点（招标分析、询价轮次、某一轮、投标价、投标工作区）、文件抽屉、审批中心。卡片只带人过去，不替人批准、不发任何东西。
-- 在工作台页签顶部加「下一步」卡片；卡片出现时，「项目决策摘要」不再给出另一个下一步。
-- 投标工作区已开启时，把它的阻断项与「价格表还没录」带进卡片。
+- 让网页的判断复用 Muse 的同一张查表（十条规则原样调用，不改它），在它前后补上网页才需要的状态：没传文件、文件解析中、分析完等确认与批准、已批准却没有已确认的要求、已回复没录入、等回复、只有一家报价、一轮没拿到报价、已有投标价准备提交、已提交、已中标、截标日期已过、项目已结束。
+- 把截标提醒从「规则」改成「卡片上的一行」：临近截标时不再盖住真正的下一步；按天说，不说钟点；只认截标时间，不拿内部到期日顶替。
+- 让「等回复 / 没回复」的口径与定时催单扫描一致：等待天数取项目负责人的设置（或该轮批准时定格的天数），回复截止过了、轮次结束了、超出扫描时间窗的不再算在等。只说现状，不承诺系统会不会催。
+- 取「当前这一轮」为最新一轮有已发出供应商的（空的新轮次不盖住上一轮的报价）；取「当前这份分析」时，最近一次失败而之前有可用的就用之前那份。
+- 指向询价入口时读入口自己的状态，把它不能用的原因写出来。
+- 让每一步指到页面上具体的位置：页签加页内位置（招标分析、供应商询价、某一轮、投标价、投标工作区、关键日期）、文件抽屉、审批中心。卡片只带人过去，不替人批准、不发任何东西。
+- 在工作台页签顶部加「下一步」卡片；卡片出现时，「项目决策摘要」与右侧的项目上下文显示同一条结论。
+- 投标工作区已开启且已录价格表时，把它的阻断项带进卡片；没录时提示可以从招标分析带入。
 - 新增开关 `TENDER_WEB_NEXT_STEP_ENABLED`（默认关，可按组织白名单）；关闭时接口 404、页面与现在相同。
 
 ## 受影响的 Muse 意图
